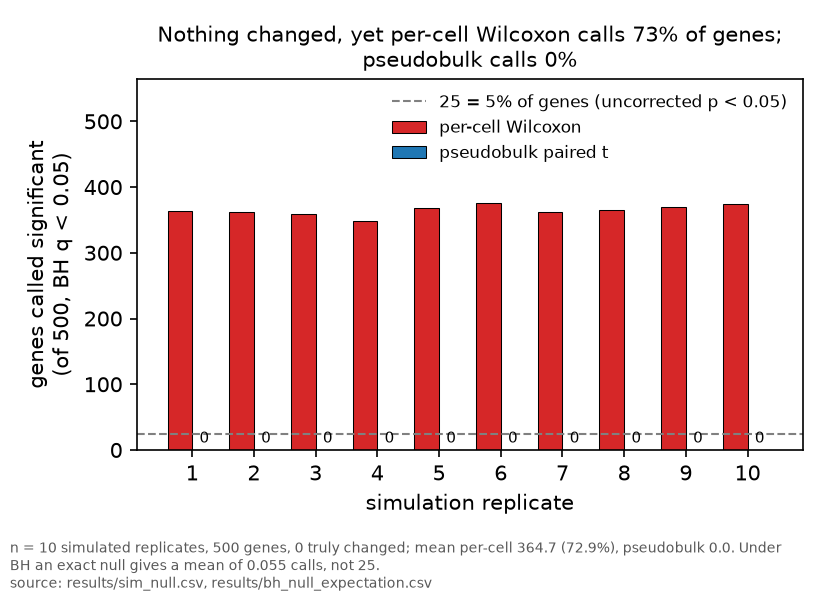
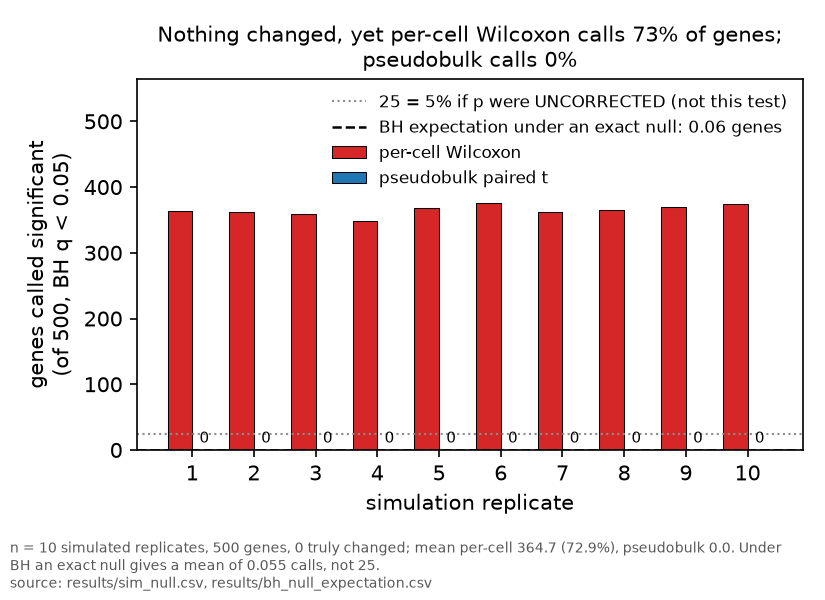
chore(single-cell): autocommit 2026-11-15 01:55 CST

Changed region(s): [[0.3939, 0.15, 0.9697, 0.33]]

diff --git a/scripts/make_figures.py b/scripts/make_figures.py
@@ -113,8 +113,19 @@ def fig_null():
            color="C3", edgecolor="black", linewidth=0.5)
     ax.bar(x + 0.2, df["pseudobulk"], width=0.4, label="pseudobulk paired t",
            color="C0", edgecolor="black", linewidth=0.5)
-    ax.axhline(0.05 * n_genes, ls="--", lw=1, color="grey",
-               label=f"{0.05 * n_genes:.0f} = 5% of genes (uncorrected p < 0.05)")
+    # Reference honesty (2026-11-15): this line is 5% of genes, which is what an
+    # UNCORRECTED p < 0.05 threshold would reject. The calls plotted are BH
+    # q < 0.05, whose expected count under an exact null is ~0.06 genes, not 25.
+    # Drawing the uncorrected number on a corrected axis set the wrong bar and
+    # made the methods look closer to calibrated than they are. The line is kept
+    # (it is the threshold the README argues against) but relabelled as such, and
+    # the BH expectation is drawn where it belongs - at zero.
+    ax.axhline(0.05 * n_genes, ls=":", lw=1, color="0.55",
+               label=f"{0.05 * n_genes:.0f} = 5% if p were UNCORRECTED (not this test)")
+    if bh is not None:
+        ax.axhline(float(bh["mean_rejections"].iloc[0]), ls="--", lw=1.2, color="black",
+                   label=f"BH expectation under an exact null: "
+                         f"{bh['mean_rejections'].iloc[0]:.2f} genes")
     ax.set(xlabel="simulation replicate",
            ylabel=f"genes called significant\n(of {n_genes}, BH q < 0.05)",
            title="Nothing changed, yet per-cell Wilcoxon calls "
@@ -270,8 +281,10 @@ def fig_real_null():
     ax.plot(df["split"] + 1, df["pseudobulk"], "o-", color="C0",
             label="pseudobulk paired t")
     n_genes = int(df["n_genes_sc"].iloc[0])
-    ax.axhline(0.05 * n_genes, ls="--", lw=1, color="grey",
-               label=f"5% of {n_genes:,} genes (uncorrected p < 0.05)")
+    # Same correction as fig_null: the plotted calls are BH q < 0.05, so a 5%-of-
+    # genes line is an uncorrected-p reference and must say so (2026-11-15).
+    ax.axhline(0.05 * n_genes, ls=":", lw=1, color="0.55",
+               label=f"{0.05 * n_genes:.0f} = 5% if p were UNCORRECTED (not this test)")
     ax.set(xlabel="random donor split (control cells only)",
            ylabel=f"genes called significant\n(of {n_genes:,}, BH q < 0.05)",
            title="Real data (Kang 2018, CD14+ monocytes), donors shuffled:\n"
